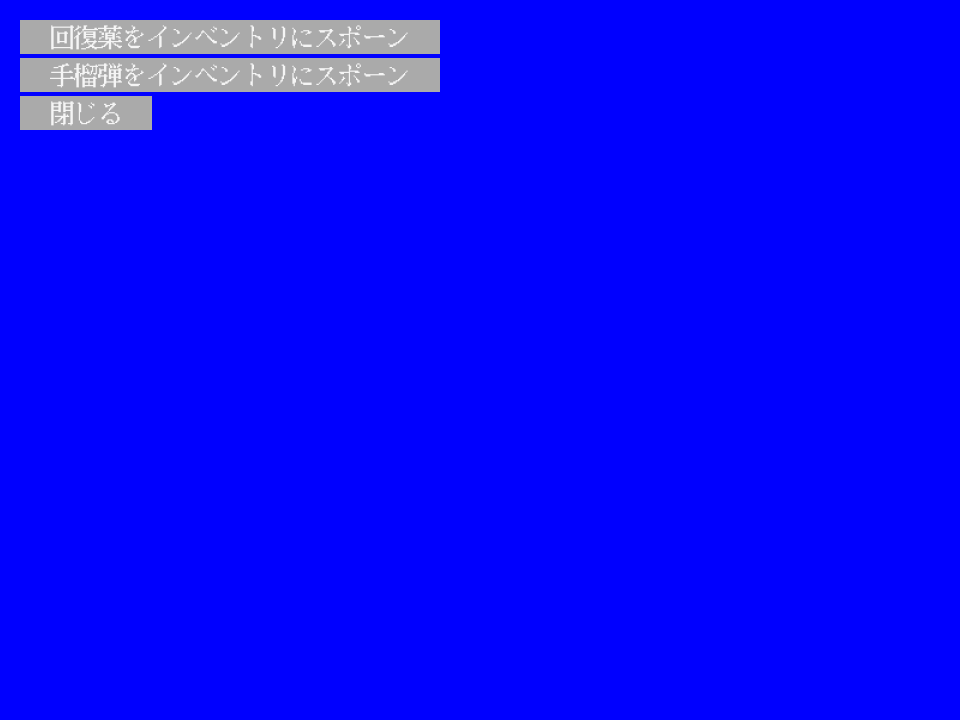
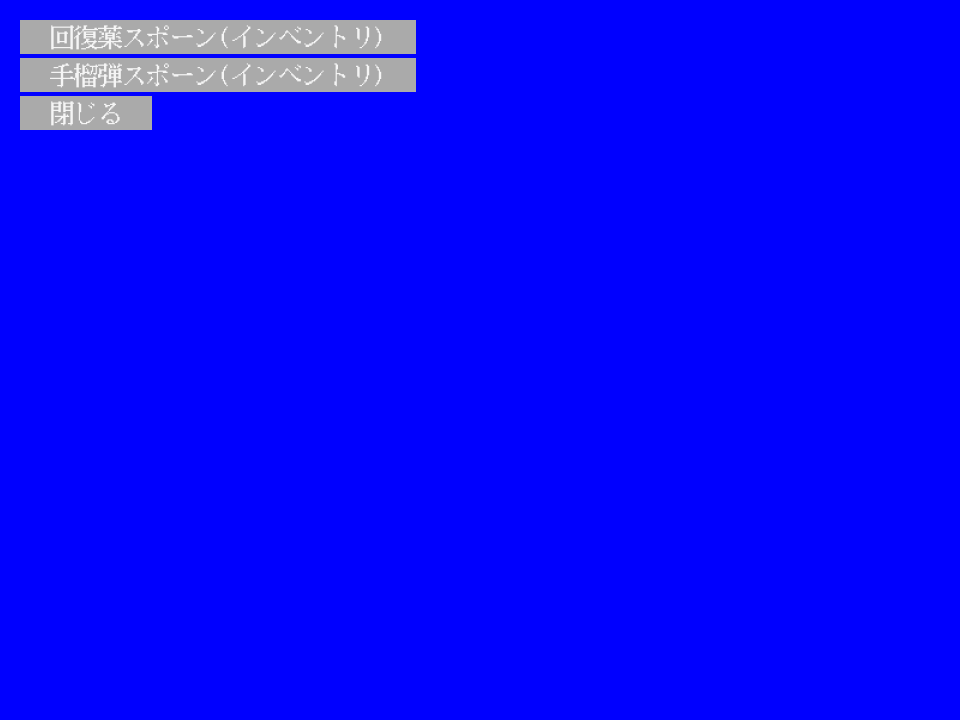
feat: dungeon menuを置き換えた

Changed region(s): [[0.125, 0.0306, 0.4688, 0.1528]]

diff --git a/lib/states/dungeon_select.go b/lib/states/dungeon_select.go
@@ -3,19 +3,24 @@ package states
 import (
 	"fmt"
 
+	"github.com/ebitenui/ebitenui"
+	"github.com/ebitenui/ebitenui/widget"
 	"github.com/hajimehoshi/ebiten/v2"
 	"github.com/hajimehoshi/ebiten/v2/inpututil"
-	ec "github.com/kijimaD/ruins/lib/engine/components"
-	"github.com/kijimaD/ruins/lib/engine/loader"
 	"github.com/kijimaD/ruins/lib/engine/states"
 	w "github.com/kijimaD/ruins/lib/engine/world"
-	"github.com/kijimaD/ruins/lib/resources"
+	"github.com/kijimaD/ruins/lib/eui"
 	ecs "github.com/x-hgg-x/goecs/v2"
 )
 
 type DungeonSelectState struct {
 	selection     int
 	dungeonSelect []ecs.Entity
+
+	ui                     *ebitenui.UI
+	trans                  *states.Transition
+	dungeonSelectContainer *widget.Container
+	dungeonDescContainer   *widget.Container
 }
 
 func (st DungeonSelectState) String() string {
@@ -29,8 +34,9 @@ func (st *DungeonSelectState) OnPause(world w.World) {}
 func (st *DungeonSelectState) OnResume(world w.World) {}
 
 func (st *DungeonSelectState) OnStart(world w.World) {
-	prefabs := world.Resources.Prefabs.(*resources.Prefabs)
-	st.dungeonSelect = append(st.dungeonSelect, loader.AddEntities(world, prefabs.Menu.DungeonSelect)...)
+	// prefabs := world.Resources.Prefabs.(*resources.Prefabs)
+	// st.dungeonSelect = append(st.dungeonSelect, loader.AddEntities(world, prefabs.Menu.DungeonSelect)...)
+	st.ui = st.initUI(world)
 }
 
 func (st *DungeonSelectState) OnStop(world w.World) {
@@ -42,24 +48,34 @@ func (st *DungeonSelectState) Update(world w.World) states.Transition {
 		return states.Transition{Type: states.TransPop}
 	}
 
-	world.Manager.Join(world.Components.Engine.Text, world.Components.Engine.UITransform).Visit(ecs.Visit(func(entity ecs.Entity) {
-		text := world.Components.Engine.Text.Get(entity).(*ec.Text)
-		if text.ID == "description" {
-			switch st.selection {
-			case 0:
-				text.Text = "鬱蒼とした森の奥地にある遺跡"
-			case 1:
-				text.Text = "切り立った山の洞窟にある遺跡"
-			case 2:
-				text.Text = "雲にまで届く塔を持つ遺跡"
-			}
-		}
-	}))
+	// world.Manager.Join(world.Components.Engine.Text, world.Components.Engine.UITransform).Visit(ecs.Visit(func(entity ecs.Entity) {
+	// 	text := world.Components.Engine.Text.Get(entity).(*ec.Text)
+	// 	if text.ID == "description" {
+	// 		switch st.selection {
+	// 		case 0:
+	// 			text.Text = "鬱蒼とした森の奥地にある遺跡"
+	// 		case 1:
+	// 			text.Text = "切り立った山の洞窟にある遺跡"
+	// 		case 2:
+	// 			text.Text = "雲にまで届く塔を持つ遺跡"
+	// 		}
+	// 	}
+	// }))
 
-	return updateMenu(st, world)
+	if st.trans != nil {
+		next := *st.trans
+		st.trans = nil
+		return next
+	}
+
+	st.ui.Update()
+
+	return states.Transition{Type: states.TransNone}
 }
 
-func (st *DungeonSelectState) Draw(world w.World, screen *ebiten.Image) {}
+func (st *DungeonSelectState) Draw(world w.World, screen *ebiten.Image) {
+	st.ui.Draw(screen)
+}
 
 // Menu Interface ================
 
@@ -89,4 +105,66 @@ func (st *DungeonSelectState) getMenuIDs() []string {
 
 func (st *DungeonSelectState) getCursorMenuIDs() []string {
 	return []string{"cursor_forest", "cursor_mountain", "cursor_tower"}
+}
+
+func (st *DungeonSelectState) initUI(world w.World) *ebitenui.UI {
+	rootContainer := eui.NewVerticalContainer()
+
+	st.dungeonSelectContainer = eui.NewRowContainer()
+	rootContainer.AddChild(st.dungeonSelectContainer)
+
+	st.dungeonDescContainer = eui.NewRowContainer()
+	rootContainer.AddChild(st.dungeonDescContainer)
+
+	st.updateMenuContainer(world)
+
+	return &ebitenui.UI{Container: rootContainer}
+}
+
+func (st *DungeonSelectState) updateMenuContainer(world w.World) {
+	st.dungeonSelectContainer.RemoveChildren()
+
+	for _, data := range dungeonSelectTrans {
+		data := data
+		btn := eui.NewItemButton(
+			data.label,
+			func(args *widget.ButtonClickedEventArgs) {
+				st.trans = &data.trans
+			},
+			world,
+		)
+		btn.GetWidget().CursorEnterEvent.AddHandler(func(args interface{}) {
+			st.dungeonDescContainer.RemoveChildren()
+			st.dungeonDescContainer.AddChild(eui.NewMenuText(data.desc, world))
+		})
+		st.dungeonSelectContainer.AddChild(btn)
+	}
+}
+
+// MEMO: まだtransは全部同じ
+var dungeonSelectTrans = []struct {
+	label string
+	desc  string
+	trans states.Transition
+}{
+	{
+		label: "森の遺跡",
+		desc:  "鬱蒼とした森の奥地にある遺跡",
+		trans: states.Transition{Type: states.TransReplace, NewStates: []states.State{&FieldState{}}},
+	},
+	{
+		label: "山の遺跡",
+		desc:  "切り立った山の洞窟にある遺跡",
+		trans: states.Transition{Type: states.TransReplace, NewStates: []states.State{&FieldState{}}},
+	},
+	{
+		label: "塔の遺跡",
+		desc:  "雲にまで届く塔を持つ遺跡",
+		trans: states.Transition{Type: states.TransReplace, NewStates: []states.State{&FieldState{}}},
+	},
+	{
+		label: "拠点メニューに戻る",
+		desc:  "",
+		trans: states.Transition{Type: states.TransSwitch, NewStates: []states.State{&HomeMenuState{}}},
+	},
 }

diff --git a/lib/states/home_menu.go b/lib/states/home_menu.go
@@ -21,9 +21,8 @@ import (
 )
 
 type HomeMenuState struct {
-	selection int
-	ui        *ebitenui.UI
-	trans     *states.Transition
+	ui    *ebitenui.UI
+	trans *states.Transition
 
 	memberContainer     *widget.Container // メンバー一覧コンテナ
 	actionListContainer *widget.Container // 選択肢アクション一覧コンテナ
@@ -134,7 +133,6 @@ func (st *HomeMenuState) initUI(world w.World) *ebitenui.UI {
 	}
 
 	st.updateActionList(world)
-	st.updateActionDesc(world)
 	st.updateMemberContainer(world)
 
 	return &ebitenui.UI{Container: rootContainer}
@@ -181,8 +179,7 @@ var homeMenuTrans = []struct {
 func (st *HomeMenuState) updateActionList(world w.World) {
 	st.actionListContainer.RemoveChildren()
 
-	for i, data := range homeMenuTrans {
-		i := i
+	for _, data := range homeMenuTrans {
 		data := data
 		btn := eui.NewItemButton(
 			data.label,
@@ -192,18 +189,13 @@ func (st *HomeMenuState) updateActionList(world w.World) {
 			world,
 		)
 		btn.GetWidget().CursorEnterEvent.AddHandler(func(args interface{}) {
-			st.selection = i
-			st.updateActionDesc(world)
+			st.actionDescContainer.RemoveChildren()
+			st.actionDescContainer.AddChild(eui.NewMenuText(data.desc, world))
+
 			st.updateMemberContainer(world)
 		})
 		st.actionListContainer.AddChild(btn)
 	}
-}
-
-// 選択肢の解説を更新する
-func (st *HomeMenuState) updateActionDesc(world w.World) {
-	st.actionDescContainer.RemoveChildren()
-	st.actionDescContainer.AddChild(eui.NewMenuText(homeMenuTrans[st.selection].desc, world))
 }
 
 // メンバー一覧を更新する

diff --git a/lib/states/debug_menu.go b/lib/states/debug_menu.go
@@ -95,12 +95,12 @@ var debugMenuTrans = []struct {
 	trans states.Transition
 }{
 	{
-		label: "回復薬をインベントリにスポーン",
+		label: "回復薬スポーン(インベントリ)",
 		f:     func(world w.World) { spawner.SpawnItem(world, "回復薬", raw.SpawnInBackpack) },
 		trans: states.Transition{Type: states.TransNone},
 	},
 	{
-		label: "手榴弾をインベントリにスポーン",
+		label: "手榴弾スポーン(インベントリ)",
 		f:     func(world w.World) { spawner.SpawnItem(world, "手榴弾", raw.SpawnInBackpack) },
 		trans: states.Transition{Type: states.TransNone},
 	},

diff --git a/lib/game/game.go b/lib/game/game.go
@@ -94,7 +94,6 @@ func InitWorld(minGameWidth int, minGameHeight int) ew.World {
 	// load prefabs
 	world.Resources.Prefabs = &gr.Prefabs{
 		Menu: gr.MenuPrefabs{
-			DungeonSelect: gloader.PreloadEntities("metadata/entities/ui/dungeon_select.toml", world),
 			FieldMenu:     gloader.PreloadEntities("metadata/entities/ui/field_menu.toml", world),
 			InventoryMenu: gloader.PreloadEntities("metadata/entities/ui/inventory_menu.toml", world),
 			CraftMenu:     gloader.PreloadEntities("metadata/entities/ui/craft_menu.toml", world),

diff --git a/lib/resources/prefab.go b/lib/resources/prefab.go
@@ -3,7 +3,6 @@ package resources
 import "github.com/kijimaD/ruins/lib/engine/loader"
 
 type MenuPrefabs struct {
-	DungeonSelect loader.EntityComponentList
 	FieldMenu     loader.EntityComponentList
 	InventoryMenu loader.EntityComponentList
 	CraftMenu     loader.EntityComponentList
